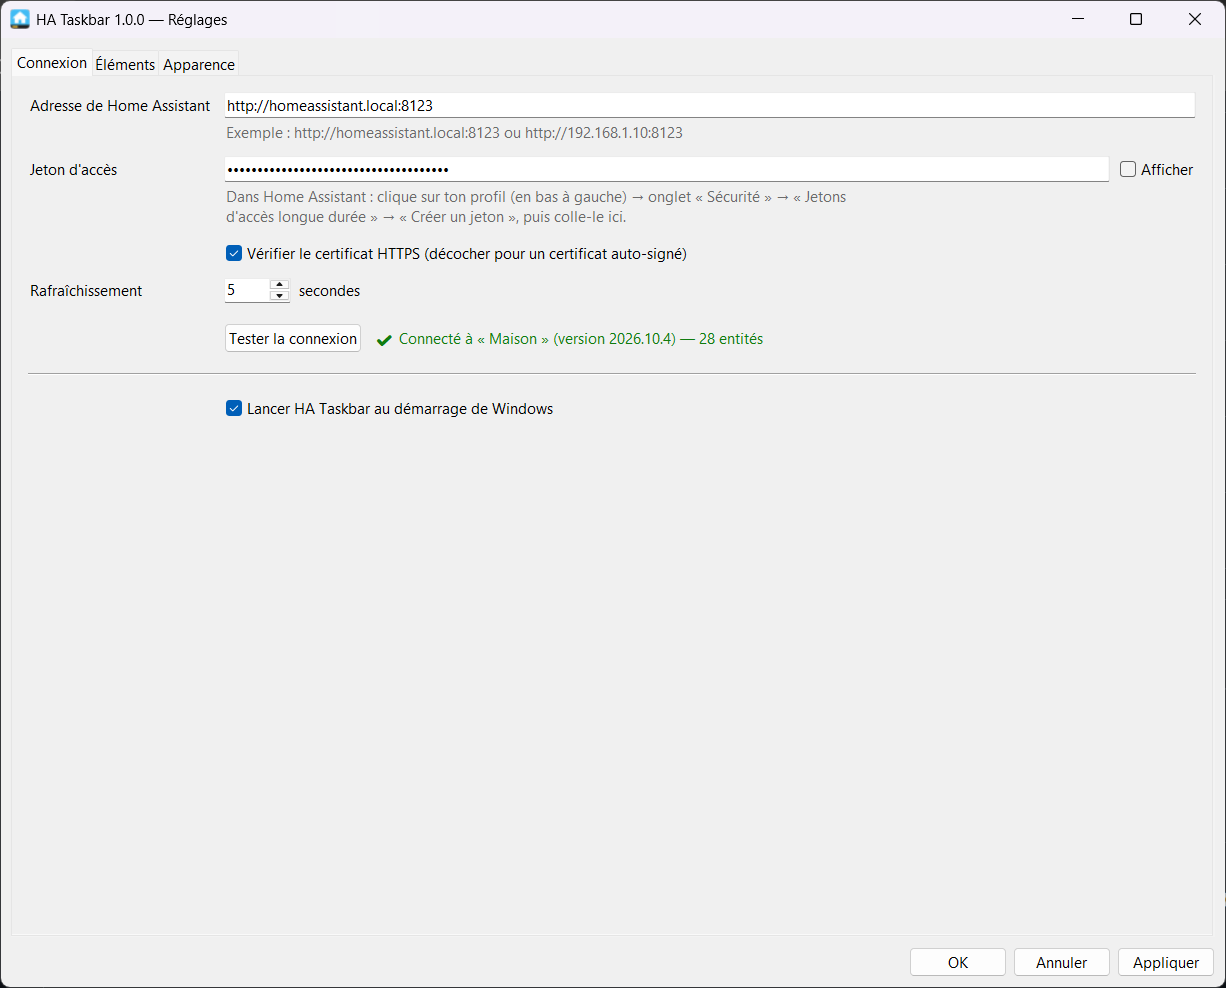
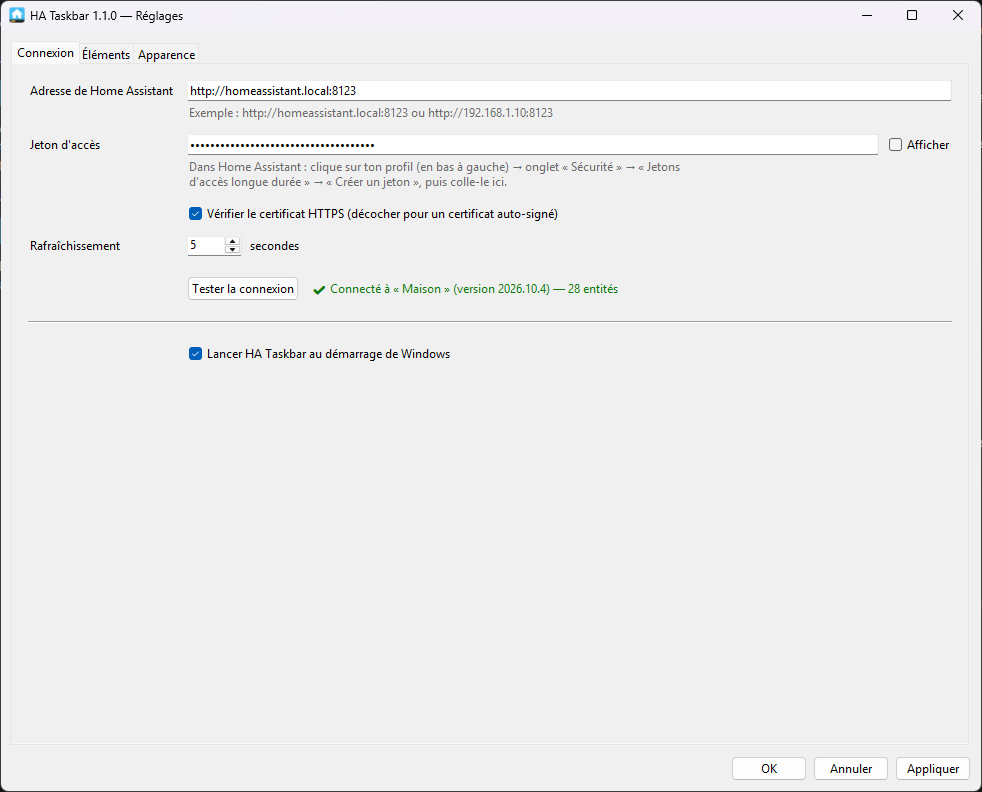
README 1.1 : nouveautes, icones, GIF de demonstration, captures a jour
- section "Nouveautes de la version 1.1", icones dans les titres (sommaire mis a jour)
- GIF : clic / molette sur une lumiere, appui long et carte de controle
- captures refaites : barre avec ses deux zones, onglets Connexion, Elements, Apparence
- reglages : la colonne Zone de la liste des elements n'est plus coupee

diff --git a/settings_ui.py b/settings_ui.py
@@ -401,7 +401,7 @@ class SettingsWindow:
         left.columnconfigure(0, weight=1)
         self.tree = ttk.Treeview(left, columns=("label", "entity", "action", "zone"), show="headings",
                                  selectmode="browse")
-        for col, title, w in (("label", "Libellé", 110), ("entity", "Entité", 150), ("action", "Clic", 110),
+        for col, title, w in (("label", "Libellé", 95), ("entity", "Entité", 140), ("action", "Clic", 100),
                               ("zone", "Zone", 60)):
             self.tree.heading(col, text=title)
             self.tree.column(col, width=self.px(w), minwidth=self.px(50))

diff --git a/README.md b/README.md
@@ -4,40 +4,55 @@ Affiche des **capteurs** et des **boutons Home Assistant** directement sur la **
 
 ![HA Taskbar sur la barre des tâches](docs/screenshots/barre.png)
 
-*Lumière allumée à 70 % (en jaune), prise éteinte, thermostat, consommation et scène, sur fond transparent à côté du widget météo de Windows. Les captures utilisent des données de démonstration.*
+*À gauche : lumière allumée à 70 % (en jaune), prise éteinte et thermostat, à côté du widget météo de Windows. À droite, juste avant les icônes de notification : consommation, température extérieure et scène. Le milieu de la barre des tâches a été retiré de l'image. Les captures utilisent des données de démonstration.*
 
-- Valeurs en temps réel : température, consommation, état d'une lumière…
-- Boutons cliquables : allumer/éteindre une lumière ou une prise, lancer une scène ou un script…
-- **Appui long** sur un élément : une carte de contrôle s'ouvre, comme dans Home Assistant (luminosité, couleur, consigne de chauffage, volume, historique 24 h…)
-- Icônes intégrées à Windows 11, qui changent de couleur selon l'état (jaune = allumé)
-- Fenêtre de réglages graphique avec aperçu en direct : rien à éditer à la main
+- 📊 **Valeurs en temps réel** : température, consommation, état d'une lumière…
+- 💡 **Boutons cliquables** : allumer/éteindre une lumière ou une prise, lancer une scène ou un script…
+- 🧩 **Appui long** sur un élément : une carte de contrôle s'ouvre, comme dans Home Assistant (luminosité, couleur, consigne de chauffage, volume, historique 24 h…)
+- ↔ **Deux zones** : une à gauche et une à droite de la barre des tâches, chaque élément choisit la sienne
+- 🎨 Icônes intégrées à Windows 11, qui changent de couleur selon l'état (jaune = allumé), et thème **clair / sombre** qui suit Windows
+- 🔧 Fenêtre de réglages graphique avec aperçu en direct : rien à éditer à la main
+
+<p align="center">
+  <img src="docs/screenshots/clic.gif" alt="Clic pour allumer, molette pour la luminosité, clic pour éteindre">
+</p>
 
 Un **programme d'installation** est fourni : rien d'autre à installer, pas même Python. Depuis les sources, il suffit de Python et de sa bibliothèque standard (tkinter, ctypes, urllib).
 
 ---
 
-## Sommaire
+## ✨ Nouveautés de la version 1.1
 
-1. [Prérequis](#prérequis)
-2. [Installation](#installation)
-3. [Premier lancement](#premier-lancement)
-4. [Utilisation au quotidien](#utilisation-au-quotidien)
-5. [Les réglages en détail](#les-réglages-en-détail)
-6. [Fichier de configuration](#fichier-de-configuration)
-7. [Comment ça marche](#comment-ça-marche)
-8. [Structure du projet](#structure-du-projet)
-9. [Limites connues](#limites-connues)
-10. [Dépannage](#dépannage)
+- ↔ **Deux zones sur la barre** : une à gauche et une à droite (juste avant les icônes de notification). Chaque élément choisit sa zone dans **Réglages → Éléments → Zone**, et chaque zone a son propre décalage dans **Réglages → Apparence**. Une zone sans élément n'apparaît pas.
+- 🔄 **Mise à jour automatique de la configuration** : une barre réglée « côté droit » en 1.0 passe toute seule dans la zone droite, avec le même décalage.
+- 🐞 **Correction** : le menu du clic droit s'affiche maintenant devant les capteurs.
+
+Le programme d'installation remplace l'ancienne version et garde tes réglages. Toutes les versions sont sur la page [**Releases**](https://github.com/bbtoff/home-assistant-taskbar/releases).
 
 ---
 
-## Prérequis
+## 📑 Sommaire
+
+1. [Prérequis](#-prérequis)
+2. [Installation](#-installation)
+3. [Premier lancement](#-premier-lancement)
+4. [Utilisation au quotidien](#-utilisation-au-quotidien)
+5. [Les réglages en détail](#-les-réglages-en-détail)
+6. [Fichier de configuration](#-fichier-de-configuration)
+7. [Comment ça marche](#-comment-ça-marche)
+8. [Structure du projet](#-structure-du-projet)
+9. [Limites connues](#-limites-connues)
+10. [Dépannage](#-dépannage)
+
+---
+
+## 📋 Prérequis
 
 - **Windows 11** (fonctionne aussi sous Windows 10, avec les icônes Segoe MDL2)
 - Uniquement pour lancer depuis les sources : **Python 3.8 ou plus récent** (testé avec 3.10), avec tkinter. C'est le cas par défaut avec l'installeur de python.org.
 - Un **Home Assistant** joignable depuis le PC, et un **jeton d'accès longue durée**
 
-### Créer le jeton d'accès Home Assistant
+### 🔑 Créer le jeton d'accès Home Assistant
 
 1. Dans Home Assistant, clique sur **ton profil** (en bas à gauche).
 2. Ouvre l'onglet **Sécurité**.
@@ -46,7 +61,7 @@ Un **programme d'installation** est fourni : rien d'autre à installer, pas mêm
 
 ---
 
-## Installation
+## 📦 Installation
 
 ### Avec le programme d'installation (recommandé)
 
@@ -81,7 +96,7 @@ powershell -ExecutionPolicy Bypass -File build.ps1
 
 ---
 
-## Premier lancement
+## 🚀 Premier lancement
 
 Au premier lancement, la fenêtre de **Réglages** s'ouvre toute seule :
 
@@ -99,12 +114,12 @@ Pour lancer HA Taskbar à chaque démarrage, coche **Lancer HA Taskbar au démar
 
 ---
 
-## Utilisation au quotidien
+## 👆 Utilisation au quotidien
 
 | Action | Effet |
 |---|---|
 | **Clic** sur un bouton | Action selon le type : allume/éteint une lumière, une prise ou un ventilateur, lance une scène ou un script, appuie sur un bouton… |
-| **Appui long** (½ seconde) | Ouvre la [carte de contrôle](#carte-de-contrôle-appui-long) de l'élément |
+| **Appui long** (½ seconde) | Ouvre la [carte de contrôle](#-carte-de-contrôle-appui-long) de l'élément |
 | **Clic** sur un capteur | Ouvre directement sa carte, puisqu'un capteur n'a pas d'action |
 | **Molette** sur une lumière | Luminosité +/− 10 % |
 | **Clic droit** n'importe où | Menu : Réglages…, Rafraîchir, Recharger la config, Quitter |
@@ -112,9 +127,13 @@ Pour lancer HA Taskbar à chaque démarrage, coche **Lancer HA Taskbar au démar
 
 La barre se masque automatiquement quand une application passe en plein écran (jeu, vidéo).
 
-### Carte de contrôle (appui long)
+### 🧩 Carte de contrôle (appui long)
 
 Un appui long sur un élément ouvre une carte juste au-dessus de la barre des tâches, dans l'esprit de la fenêtre de détail de Home Assistant. Son contenu dépend du type d'entité :
+
+<p align="center">
+  <img src="docs/screenshots/carte.gif" alt="Appui long sur une lumière : la carte s'ouvre, luminosité et température du blanc suivent en direct" width="360">
+</p>
 
 <p>
   <img src="docs/screenshots/carte-lumiere.png" alt="Carte d'une lumière" width="24%">
@@ -144,7 +163,7 @@ Le **titre** de la carte se change avec le crayon **✎** à côté (ou un doubl
 
 La carte se ferme avec **Échap**, ou par un clic n'importe où en dehors.
 
-#### Thèmes de la carte
+#### 🎨 Thèmes de la carte
 
 Dans **Réglages → Apparence → Carte de contrôle**, choisis un thème et ses couleurs (comme la barre, toujours sombre ou toujours clair). Un aperçu se met à jour à chaque changement, et le bouton **Ouvrir la carte sur la barre** montre le vrai résultat.
 
@@ -194,7 +213,7 @@ Une clé absente reprend la valeur du thème par défaut. Après avoir enregistr
 
 ---
 
-## Les réglages en détail
+## 🔧 Les réglages en détail
 
 ### Onglet Connexion
 - **Adresse** et **jeton** de Home Assistant
@@ -244,13 +263,13 @@ Pour les scènes, boutons et scripts, la barre affiche « Activer », « Appuyer
 - **Fond transparent** (activé par défaut) : on voit le fond de la barre des tâches de Windows derrière les boutons. Comme les icônes de Windows restent visibles à travers, garde la barre dans une zone libre. Le survol affiche un rectangle de la couleur « Survol ».
 - **Police**, **taille**, **opacité**, **afficher les icônes**, **masquer en plein écran**
 - **Couleurs** : fond, valeurs, libellés, actif/allumé, survol, erreur, pour chacun des deux modes. Le bouton **Couleurs par défaut** remet celles d'origine.
-- **Carte de contrôle** : thème et couleurs de la carte d'appui long (voir [Thèmes de la carte](#thèmes-de-la-carte)).
+- **Carte de contrôle** : thème et couleurs de la carte d'appui long (voir [Thèmes de la carte](#-thèmes-de-la-carte)).
 
 Tous les changements sont **prévisualisés en direct** sur la barre. **Appliquer**/**OK** enregistre, **Annuler** revient à l'état précédent.
 
 ---
 
-## Fichier de configuration
+## 📝 Fichier de configuration
 
 Les réglages sont stockés dans `config.json`, créé automatiquement :
 - version installée : `%APPDATA%\HATaskbar\config.json`
@@ -281,7 +300,7 @@ Les décalages des deux zones sont `offset` (zone gauche, depuis le bord gauche)
 
 ---
 
-## Comment ça marche
+## 🧠 Comment ça marche
 
 Windows 11 ne permet plus d'ajouter des « deskbands » (barres d'outils) à la barre des tâches. HA Taskbar contourne cela :
 
@@ -294,7 +313,7 @@ Windows 11 ne permet plus d'ajouter des « deskbands » (barres d'outils) à la 
 
 ---
 
-## Structure du projet
+## 📁 Structure du projet
 
 | Fichier | Rôle |
 |---|---|
@@ -311,7 +330,7 @@ Windows 11 ne permet plus d'ajouter des « deskbands » (barres d'outils) à la 
 
 ---
 
-## Limites connues
+## 🚧 Limites connues
 
 - Seule la barre des tâches de l'**écran principal** est gérée.
 - Avec la barre des tâches en **masquage automatique**, la fenêtre ne suit pas l'animation.
@@ -321,19 +340,19 @@ Windows 11 ne permet plus d'ajouter des « deskbands » (barres d'outils) à la 
 
 ---
 
-## Dépannage
+## 🩺 Dépannage
 
 | Symptôme | Solution |
 |---|---|
 | **● HA** rouge, « HTTP 401 » | Jeton invalide ou révoqué : recrée-le dans Home Assistant |
 | « Connexion impossible » | Vérifie l'adresse (http/https, port 8123) et que le PC joint Home Assistant |
 | Erreur de certificat | Décoche **Vérifier le certificat HTTPS** |
-| La barre recouvre des icônes | Ajuste le **décalage** dans l'onglet Apparence |
+| La barre recouvre des icônes | Ajuste le **décalage** de la zone concernée (gauche ou droite) dans l'onglet Apparence |
 | « HA Taskbar est déjà lancé » | Une instance tourne déjà : clic droit sur la barre → Réglages |
 | Rien ne s'affiche | Lance avec `python ha_taskbar.py` (et non `pythonw`) pour voir les erreurs dans la console |
 
 ---
 
-## À propos de ce projet
+## 💬 À propos de ce projet
 
 Je ne suis pas développeur 😄 J'ai apporté les idées, les tests et les retours au fil de l'eau. Toute la partie technique (code, programme d'installation, documentation et captures) a été réalisée par **Claude**, l'assistant IA d'Anthropic, à partir de mes demandes.
